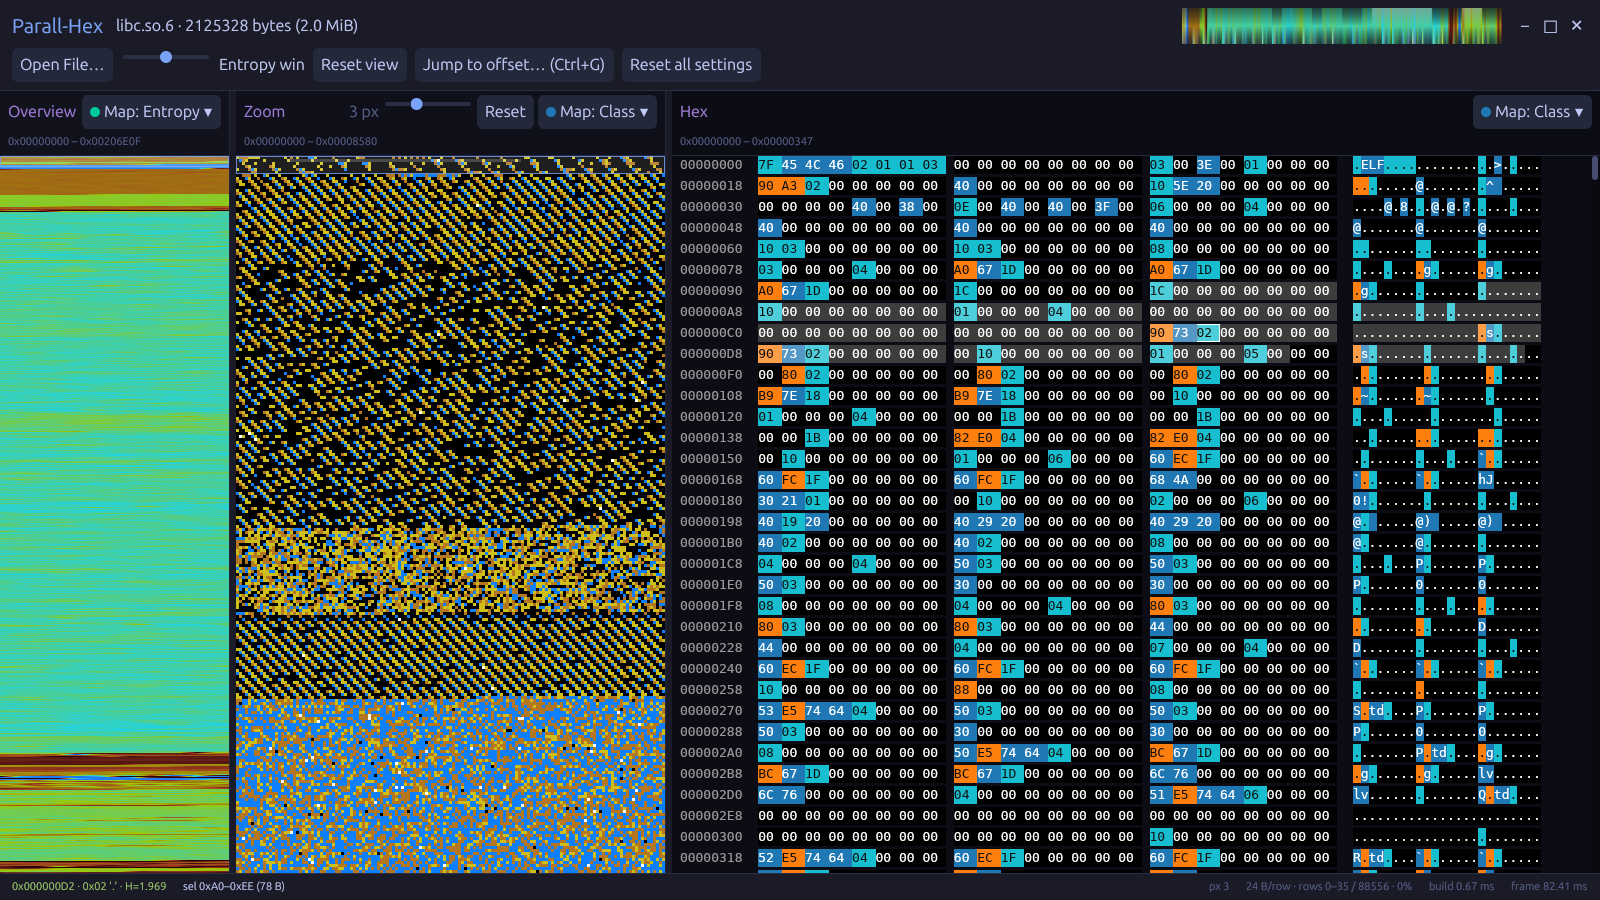
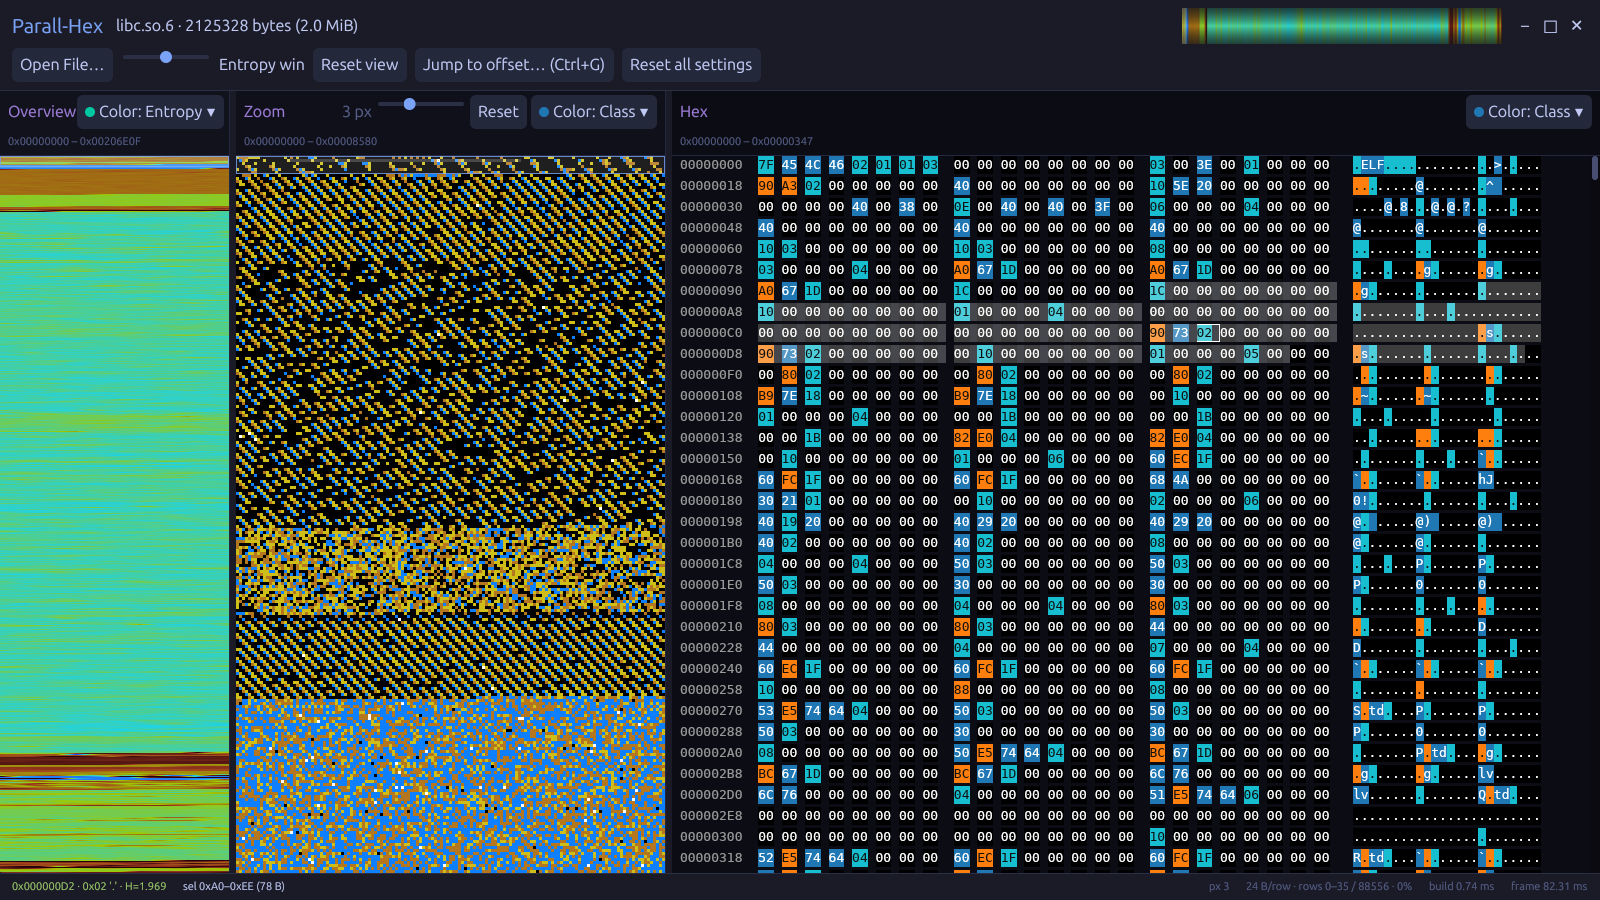
feat: colour only the hex digits, leaving the inter-byte gap as background
The hex cell background covered the two digits *and* the space separating them
from the next byte, so a run of same-class bytes painted as one continuous band
and the cells read as a stripe rather than as discrete values. The colour now
covers the digits only.

RowGeo::hex_fill_w() is the fill width; cell_w stays the *advance*, so nothing
about layout, glyph positions or hit-testing moves -- clicking in the gap still
selects the byte to its left, as before.

Because the hex fills are no longer contiguous, they cannot be merged into one
quad per run, so paint_cell_runs emits one per cell when fill_w is narrower than
the advance and keeps the single merged quad when it is not (the ASCII side,
whose glyphs are adjacent). That costs roughly bpr quads per row on the hex side
-- about a thousand per frame at typical widths, against the ~540k the zoom
column used to emit, so it is not a concern.

The selection tint deliberately keeps painting as one continuous band across the
run rather than following the narrower fill, so a selected range still reads as a
block instead of a dashed line.

Also refreshes the README screenshot, which was stale in two ways: it predated
this change, and it predated the picker label becoming "Color:" rather than
"Map:" (that rename was swept into the previous commit by an over-broad `git
add`; the README's reference to the dropdown is updated here to match).

diff --git a/src/panes.rs b/src/panes.rs
@@ -355,6 +355,14 @@ impl RowGeo {
         self.hex_start + i as f32 * self.cell_w + (i / 8) as f32 * self.group_gap
     }
 
+    /// Width the byte colour fills in a hex cell: the two digits only, not the
+    /// space that separates them from the next byte. `cell_w` remains the
+    /// *advance* — hit-testing still claims the whole cell, so clicking in the
+    /// gap selects the byte to its left.
+    pub fn hex_fill_w(&self) -> f32 {
+        2.0 * self.char_w
+    }
+
     pub fn ascii_x(&self, i: usize) -> f32 {
         self.ascii_start + i as f32 * self.char_w
     }
@@ -597,11 +605,19 @@ pub(crate) fn hex_char_width(window: &mut Window, font: &Font, font_size: Pixels
     (line.x_for_index(64).to_f64() as f32 / 64.0).max(1.0)
 }
 
-/// Paint merged quads for a run of cell backgrounds. A run extends while the
-/// (color, selection) state is unchanged and stays within one group of
-/// `split_every` cells (the hex side splits at 8 so a merged quad never covers
-/// the group gap, which shows the panel background; `usize::MAX` merges the
-/// whole row). Cell x comes from `x_of`.
+/// Paint the cell backgrounds and selection tint for a run of cells. A run
+/// extends while the (color, selection) state is unchanged and stays within one
+/// group of `split_every` cells (the hex side splits at 8 so a merged quad never
+/// covers the group gap, which shows the panel background; `usize::MAX` merges
+/// the whole row). Cell x comes from `x_of`, and `cell_w` is the advance from one
+/// cell to the next.
+///
+/// `fill_w` is how much of each cell the byte colour covers. When it is narrower
+/// than the advance — the hex side, where only the two digits are coloured and
+/// the space between bytes stays panel background — the cells are not contiguous,
+/// so each needs its own quad. The **selection** still paints as one continuous
+/// band across the run either way, so a selected range reads as a block rather
+/// than a dashed line.
 #[allow(clippy::too_many_arguments)]
 fn paint_cell_runs(
     window: &mut Window,
@@ -611,6 +627,7 @@ fn paint_cell_runs(
     selected: &[bool],
     x_of: impl Fn(usize) -> f32,
     cell_w: f32,
+    fill_w: f32,
     split_every: usize,
 ) {
     let n = colors.len();
@@ -623,26 +640,40 @@ fn paint_cell_runs(
             j += 1;
         }
         let x0 = x_of(i);
-        let rect = Bounds::new(
+        let span = Bounds::new(
             point(origin.x + px(x0), origin.y + px(y0)),
             size(px(x_of(j - 1) + cell_w - x0), px(ROW_H)),
         );
         if let Some(bg) = bg {
-            window.paint_quad(filled_quad(rect, bg));
+            if fill_w >= cell_w {
+                // Contiguous cells: the whole run is one quad.
+                window.paint_quad(filled_quad(span, bg));
+            } else {
+                for k in i..j {
+                    let cell = Bounds::new(
+                        point(origin.x + px(x_of(k)), origin.y + px(y0)),
+                        size(px(fill_w), px(ROW_H)),
+                    );
+                    window.paint_quad(filled_quad(cell, bg));
+                }
+            }
         }
         if s {
-            window.paint_quad(filled_quad(rect, rgba(0xffffff3d)));
+            window.paint_quad(filled_quad(span, rgba(0xffffff3d)));
         }
         i = j;
     }
 }
 
 /// Paint the hex column into `bounds`: class-colored hex + ASCII cells with
-/// selection/hover overlays, one virtualized row at a time. Cell-background
-/// quads are merged into runs of identical (color, selection) state — binary
-/// data is repetitive, so the 2·bpr quads per row typically collapse to a
-/// handful. Runs split at every 8-byte group boundary so a merged quad never
-/// covers the group gap, which shows the panel background.
+/// selection/hover overlays, one virtualized row at a time.
+///
+/// On the hex side the byte colour covers the two digits only, so the space
+/// between bytes keeps the panel background and the cells read as discrete
+/// values rather than one continuous band. ASCII glyphs are adjacent, so there
+/// the colour does run together. Selection tints and run-merging still work
+/// across both — see `paint_cell_runs` — and runs split at every 8-byte group
+/// boundary so no merged quad covers the group gap.
 #[allow(clippy::too_many_arguments, clippy::too_many_lines)]
 pub(crate) fn paint_hex(
     window: &mut Window,
@@ -702,6 +733,7 @@ pub(crate) fn paint_hex(
             &selected[..n],
             |i| geo.cell_x(i),
             geo.cell_w,
+            geo.hex_fill_w(),
             8,
         );
         paint_cell_runs(
@@ -711,6 +743,7 @@ pub(crate) fn paint_hex(
             &colors[..n],
             &selected[..n],
             |i| geo.ascii_x(i),
+            geo.char_w,
             geo.char_w,
             usize::MAX,
         );
@@ -1135,6 +1168,22 @@ mod tests {
     fn px(buf: &[u8], width: usize, x: usize, y: usize) -> (u8, u8, u8, u8) {
         let p = (y * width + x) * 4;
         (buf[p], buf[p + 1], buf[p + 2], buf[p + 3])
+    }
+
+    #[test]
+    fn hex_colour_fills_the_digits_but_not_the_gap() {
+        let geo = RowGeo::new(8.0, 16);
+        // Two digits wide, against a three-character advance: the space between
+        // bytes is left to the panel background.
+        assert_eq!(geo.hex_fill_w(), 16.0);
+        assert_eq!(geo.cell_w, 24.0);
+        assert!(geo.hex_fill_w() < geo.cell_w);
+        // The uncovered strip is exactly one glyph, and the next cell starts
+        // after it rather than overlapping the fill.
+        assert_eq!(geo.cell_w - geo.hex_fill_w(), geo.char_w);
+        assert_eq!(geo.cell_x(1) - geo.cell_x(0), geo.cell_w);
+        // ASCII cells stay contiguous, so their colour still merges.
+        assert_eq!(geo.ascii_x(1) - geo.ascii_x(0), geo.char_w);
     }
 
     /// Per-window Shannon entropies for `data`, as handed to the generators.

diff --git a/README.md b/README.md
@@ -50,7 +50,7 @@ Usage: parallhex [OPTIONS] [FILE]
 
 ## Colormaps
 
-Each column independently picks how it colours bytes, from the `Map: … ▾`
+Each column independently picks how it colours bytes, from the `Color: … ▾`
 dropdown in its header:
 
 | Mode | Meaning |
